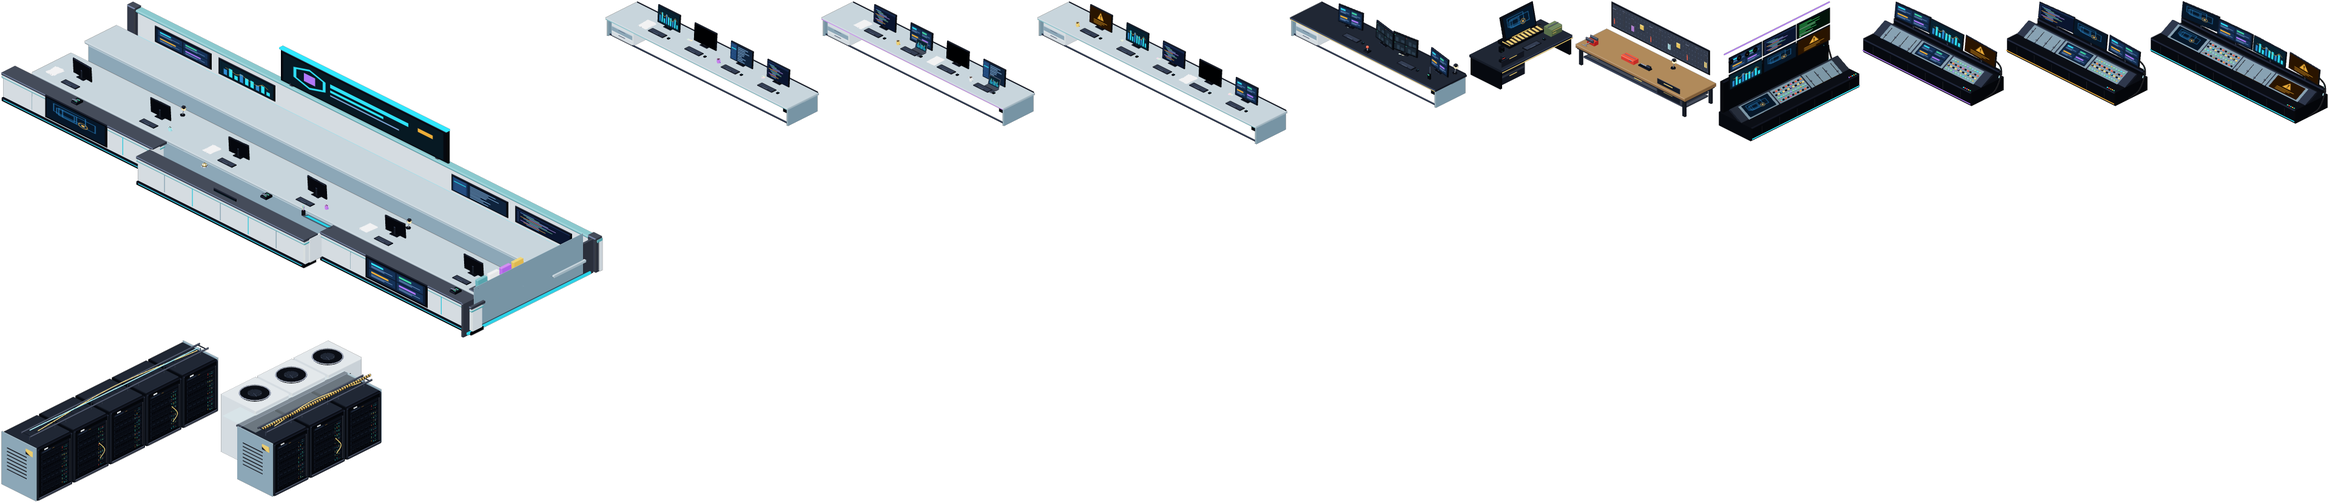
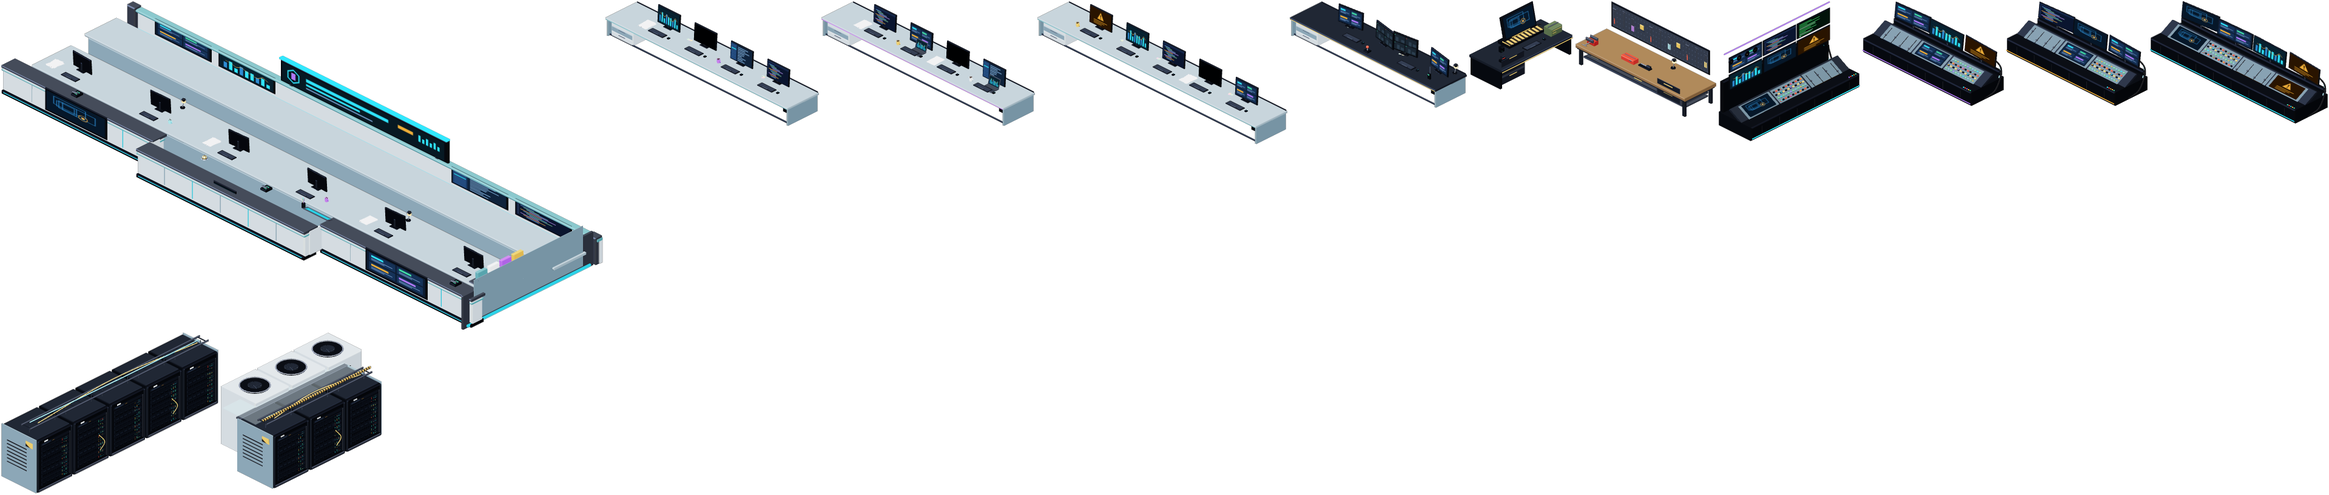
WIP overhaul: office and tech props baked (lab, cargo and architecture restyle still in progress)
Claude-Session: https://claude.ai/code/session_0115DZYYhipQqSk6LHvQcEfz

diff --git a/js/propatlas.js b/js/propatlas.js
@@ -1,2 +1,2 @@
 // GENERATED by design/props/bake_props.js: where each prop sprite is in img/props/<family>.png, and its anchor and marks. Do not edit.
-const PROP_ATLAS = {"bridge":{"px":84.8528137423857,"uh":73.48469228349533,"sheet":[411,156],"cells":{"mid":{"x":0,"y":0,"w":137,"h":138,"ax":69,"ay":242,"marks":{"deck":[69,72]},"edge":false},"tank":{"x":137,"y":0,"w":137,"h":156,"ax":69,"ay":260,"marks":{"deck":[69,90]},"edge":false},"deck":{"x":274,"y":0,"w":137,"h":138,"ax":69,"ay":242,"marks":{"deck":[69,72]},"edge":false}}},"cargo":{"px":84.8528137423857,"uh":73.48469228349533,"sheet":[606,366],"cells":{"crate.s0":{"x":0,"y":0,"w":87,"h":108,"ax":59,"ay":46,"marks":{},"edge":false},"crate.s1":{"x":87,"y":0,"w":91,"h":109,"ax":63,"ay":46,"marks":{},"edge":false},"crate.s2":{"x":178,"y":0,"w":84,"h":106,"ax":56,"ay":46,"marks":{},"edge":false},"crate.s3":{"x":262,"y":0,"w":92,"h":110,"ax":64,"ay":46,"marks":{},"edge":false},"crate_stack.s0":{"x":354,"y":0,"w":120,"h":128,"ax":60,"ay":77,"marks":{},"edge":false},"crate_stack.s1":{"x":474,"y":0,"w":120,"h":121,"ax":60,"ay":69,"marks":{},"edge":false},"barrel.s0":{"x":0,"y":128,"w":68,"h":73,"ax":34,"ay":57,"marks":{},"edge":false},"barrel.s1":{"x":68,"y":128,"w":68,"h":73,"ax":34,"ay":57,"marks":{},"edge":false},"barrel.s2":{"x":136,"y":128,"w":68,"h":73,"ax":34,"ay":57,"marks":{},"edge":false},"barrel.s3":{"x":204,"y":128,"w":68,"h":73,"ax":34,"ay":57,"marks":{},"edge":false},"floodlight":{"x":272,"y":128,"w":110,"h":176,"ax":55,"ay":147,"marks":{},"edge":false},"barrier":{"x":382,"y":128,"w":154,"h":114,"ax":77,"ay":73,"marks":{},"edge":false},"case":{"x":536,"y":128,"w":70,"h":62,"ax":35,"ay":44,"marks":{},"edge":false},"case.s1":{"x":0,"y":304,"w":70,"h":62,"ax":35,"ay":44,"marks":{},"edge":false}}},"dbg":{"px":84.8528137423857,"uh":73.48469228349533,"sheet":[294,88],"cells":{"a":{"x":0,"y":0,"w":98,"h":88,"ax":49,"ay":62,"marks":{},"edge":false},"b":{"x":98,"y":0,"w":98,"h":88,"ax":49,"ay":62,"marks":{},"edge":false},"c":{"x":196,"y":0,"w":98,"h":88,"ax":49,"ay":62,"marks":{},"edge":false}}},"lab":{"px":84.8528137423857,"uh":73.48469228349533,"sheet":[2362,476],"cells":{"lab_bench.8x2.s0":{"x":0,"y":0,"w":604,"h":337,"ax":302,"ay":189,"marks":{},"edge":false},"lab_bench.8x2.s1":{"x":604,"y":0,"w":604,"h":337,"ax":302,"ay":189,"marks":{},"edge":false},"fume_hood":{"x":1208,"y":0,"w":294,"h":234,"ax":147,"ay":162,"marks":{},"edge":false},"test_chamber.r85":{"x":1502,"y":0,"w":148,"h":186,"ax":74,"ay":127,"marks":{"top":[74,33]},"edge":false},"test_chamber.r75":{"x":1650,"y":0,"w":132,"h":177,"ax":66,"ay":123,"marks":{"top":[66,29]},"edge":false},"cart.1x1":{"x":1782,"y":0,"w":111,"h":105,"ax":60,"ay":77,"marks":{},"edge":false},"cart.2x1":{"x":1893,"y":0,"w":171,"h":135,"ax":90,"ay":92,"marks":{},"edge":false},"generator.1x2":{"x":2064,"y":0,"w":174,"h":165,"ax":86,"ay":121,"marks":{},"edge":false},"generator.1x1":{"x":2238,"y":0,"w":124,"h":149,"ax":69,"ay":119,"marks":{},"edge":false},"toolbox":{"x":0,"y":337,"w":94,"h":96,"ax":47,"ay":75,"marks":{},"edge":false},"speaker":{"x":94,"y":337,"w":70,"h":139,"ax":36,"ay":118,"marks":{},"edge":false},"spool":{"x":164,"y":337,"w":109,"h":111,"ax":61,"ay":80,"marks":{},"edge":false}}},"lounge":{"px":84.8528137423857,"uh":73.48469228349533,"sheet":[1307,341],"cells":{"couch.3x1.s0":{"x":0,"y":0,"w":238,"h":153,"ax":119,"ay":98,"marks":{},"edge":false},"couch.3x1.s1":{"x":238,"y":0,"w":238,"h":153,"ax":119,"ay":98,"marks":{},"edge":false},"table":{"x":476,"y":0,"w":172,"h":105,"ax":86,"ay":65,"marks":{},"edge":false},"beanbag.s0":{"x":648,"y":0,"w":79,"h":59,"ax":40,"ay":47,"marks":{},"edge":false},"beanbag.s1":{"x":727,"y":0,"w":77,"h":59,"ax":41,"ay":47,"marks":{},"edge":false},"beanbag.s2":{"x":804,"y":0,"w":79,"h":59,"ax":40,"ay":47,"marks":{},"edge":false},"beanbag.s3":{"x":883,"y":0,"w":78,"h":59,"ax":37,"ay":47,"marks":{},"edge":false},"pingpong":{"x":961,"y":0,"w":346,"h":186,"ax":173,"ay":113,"marks":{},"edge":false},"vending.1x1.s0":{"x":0,"y":186,"w":109,"h":124,"ax":57,"ay":101,"marks":{},"edge":false},"vending.1x1.s1":{"x":109,"y":186,"w":109,"h":124,"ax":57,"ay":101,"marks":{},"edge":false},"vending.1x1.s2":{"x":218,"y":186,"w":109,"h":124,"ax":57,"ay":101,"marks":{},"edge":false},"vending.2x1":{"x":327,"y":186,"w":171,"h":155,"ax":88,"ay":116,"marks":{},"edge":false},"cooler":{"x":498,"y":186,"w":71,"h":94,"ax":38,"ay":77,"marks":{},"edge":false},"bin.s0":{"x":569,"y":186,"w":77,"h":76,"ax":40,"ay":57,"marks":{},"edge":false},"bin.s1":{"x":646,"y":186,"w":77,"h":76,"ax":40,"ay":57,"marks":{},"edge":false},"chair":{"x":723,"y":186,"w":69,"h":75,"ax":35,"ay":60,"marks":{},"edge":false}}},"office":{"px":84.8528137423857,"uh":73.48469228349533,"sheet":[3839,829],"cells":{"reception_desk":{"x":0,"y":0,"w":996,"h":559,"ax":493,"ay":308,"marks":{},"edge":false},"computer_desk.5x1.s0":{"x":996,"y":0,"w":356,"h":210,"ax":178,"ay":121,"marks":{},"edge":false},"computer_desk.5x1.s1":{"x":1352,"y":0,"w":356,"h":210,"ax":178,"ay":121,"marks":{},"edge":false},"computer_desk.6x1":{"x":1708,"y":0,"w":416,"h":240,"ax":208,"ay":136,"marks":{},"edge":false},"computer_desk.4x1":{"x":2124,"y":0,"w":296,"h":180,"ax":148,"ay":106,"marks":{},"edge":false},"computer_desk.1x2":{"x":2420,"y":0,"w":175,"h":150,"ax":87,"ay":106,"marks":{},"edge":false},"desk":{"x":2595,"y":0,"w":236,"h":195,"ax":118,"ay":138,"marks":{},"edge":false},"console.1x3":{"x":2831,"y":0,"w":237,"h":235,"ax":118,"ay":175,"marks":{},"edge":false},"console.3x1.s0":{"x":3068,"y":0,"w":237,"h":177,"ax":119,"ay":117,"marks":{},"edge":false},"console.3x1.s1":{"x":3305,"y":0,"w":237,"h":177,"ax":119,"ay":117,"marks":{},"edge":false},"console.4x1":{"x":3542,"y":0,"w":297,"h":206,"ax":149,"ay":131,"marks":{},"edge":false},"server_rack.1x5":{"x":0,"y":559,"w":362,"h":270,"ax":181,"ay":178,"marks":{},"edge":false},"server_rack.2x3":{"x":362,"y":559,"w":269,"h":262,"ax":118,"ay":185,"marks":{},"edge":false}}},"plant":{"px":84.8528137423857,"uh":73.48469228349533,"sheet":[296,184],"cells":{"p0":{"x":0,"y":0,"w":86,"h":89,"ax":41,"ay":79,"marks":{},"edge":false},"p1":{"x":86,"y":0,"w":68,"h":98,"ax":34,"ay":81,"marks":{},"edge":false},"p2":{"x":154,"y":0,"w":64,"h":105,"ax":32,"ay":89,"marks":{},"edge":false},"p3":{"x":218,"y":0,"w":78,"h":111,"ax":40,"ay":97,"marks":{},"edge":false},"d0":{"x":0,"y":111,"w":75,"h":54,"ax":32,"ay":39,"marks":{},"edge":false},"d1":{"x":75,"y":111,"w":86,"h":73,"ax":34,"ay":57,"marks":{},"edge":false}}},"sentry":{"px":84.8528137423857,"uh":73.48469228349533,"sheet":[702,591],"cells":{"a00":{"x":0,"y":0,"w":158,"h":139,"ax":57,"ay":110,"marks":{"lamp":[41.2,3.6],"muzzle":[147.7,89.6]},"edge":false},"a01":{"x":158,"y":0,"w":121,"h":142,"ax":57,"ay":113,"marks":{"lamp":[48.4,4.2],"muzzle":[106.1,106.5]},"edge":false},"a02":{"x":279,"y":0,"w":113,"h":143,"ax":57,"ay":114,"marks":{"lamp":[57,4.4],"muzzle":[57,112.3]},"edge":false},"a03":{"x":392,"y":0,"w":120,"h":142,"ax":64,"ay":113,"marks":{"lamp":[72.6,4.2],"muzzle":[14.9,106.5]},"edge":false},"a04":{"x":512,"y":0,"w":157,"h":139,"ax":101,"ay":110,"marks":{"lamp":[116.8,3.6],"muzzle":[10.3,89.6]},"edge":false},"a05":{"x":0,"y":143,"w":180,"h":136,"ax":124,"ay":107,"marks":{"lamp":[144.7,4.3],"muzzle":[5.5,65.7]},"edge":false},"a06":{"x":180,"y":143,"w":185,"h":131,"ax":129,"ay":102,"marks":{"lamp":[151.4,3.6],"muzzle":[0.7,36.2]},"edge":false},"a07":{"x":365,"y":143,"w":180,"h":132,"ax":124,"ay":103,"marks":{"lamp":[144.7,8.8],"muzzle":[5.5,12.7]},"edge":false},"a08":{"x":545,"y":143,"w":157,"h":149,"ax":101,"ay":120,"marks":{"lamp":[116.8,29.5],"muzzle":[10.3,8.8]},"edge":false},"a09":{"x":0,"y":292,"w":120,"h":161,"ax":64,"ay":132,"marks":{"lamp":[72.6,43.9],"muzzle":[14.9,6.9]},"edge":false},"a10":{"x":120,"y":292,"w":113,"h":163,"ax":57,"ay":134,"marks":{"lamp":[57,46.8],"muzzle":[57,4.1]},"edge":false},"a11":{"x":233,"y":292,"w":121,"h":161,"ax":57,"ay":132,"marks":{"lamp":[48.4,43.9],"muzzle":[106.1,6.9]},"edge":false},"a12":{"x":354,"y":292,"w":158,"h":149,"ax":57,"ay":120,"marks":{"lamp":[41.2,29.5],"muzzle":[147.7,8.8]},"edge":false},"a13":{"x":512,"y":292,"w":181,"h":132,"ax":57,"ay":103,"marks":{"lamp":[36.3,8.8],"muzzle":[175.5,12.7]},"edge":false},"a14":{"x":0,"y":455,"w":186,"h":131,"ax":57,"ay":102,"marks":{"lamp":[34.6,3.6],"muzzle":[185.3,36.2]},"edge":false},"a15":{"x":186,"y":455,"w":181,"h":136,"ax":57,"ay":107,"marks":{"lamp":[36.3,4.3],"muzzle":[175.5,65.7]},"edge":false}}},"tank":{"px":84.8528137423857,"uh":73.48469228349533,"sheet":[594,398],"cells":{"reserve":{"x":0,"y":0,"w":382,"h":398,"ax":191,"ay":298,"marks":{"top":[191,128]},"edge":false},"lab":{"x":382,"y":0,"w":212,"h":182,"ax":104,"ay":129,"marks":{"top":[104,49]},"edge":false}}},"tech":{"px":84.8528137423857,"uh":73.48469228349533,"sheet":[958,474],"cells":{"teleporter.s0":{"x":0,"y":0,"w":90,"h":126,"ax":45,"ay":102,"marks":{},"edge":false},"teleporter.s1":{"x":90,"y":0,"w":90,"h":126,"ax":45,"ay":102,"marks":{},"edge":false},"charger.on":{"x":180,"y":0,"w":90,"h":116,"ax":45,"ay":93,"marks":{},"edge":false},"charger.off":{"x":270,"y":0,"w":90,"h":116,"ax":45,"ay":93,"marks":{},"edge":false},"relay.on":{"x":360,"y":0,"w":89,"h":133,"ax":46,"ay":111,"marks":{},"edge":false},"relay.off":{"x":449,"y":0,"w":95,"h":133,"ax":52,"ay":111,"marks":{},"edge":false},"mech_bay":{"x":544,"y":0,"w":236,"h":258,"ax":118,"ay":198,"marks":{},"edge":false},"locker.1x1.s0":{"x":780,"y":0,"w":88,"h":123,"ax":44,"ay":101,"marks":{},"edge":false},"locker.1x1.s1":{"x":868,"y":0,"w":90,"h":125,"ax":45,"ay":102,"marks":{},"edge":false},"locker.4x1":{"x":0,"y":258,"w":274,"h":216,"ax":137,"ay":147,"marks":{},"edge":false},"cabinet.1x1":{"x":274,"y":258,"w":96,"h":102,"ax":48,"ay":77,"marks":{},"edge":false},"cabinet.1x2":{"x":370,"y":258,"w":170,"h":170,"ax":85,"ay":127,"marks":{},"edge":false},"display_case.s0":{"x":540,"y":258,"w":96,"h":129,"ax":48,"ay":104,"marks":{},"edge":false},"display_case.s1":{"x":636,"y":258,"w":96,"h":129,"ax":48,"ay":104,"marks":{},"edge":false},"display_case.s2":{"x":732,"y":258,"w":96,"h":129,"ax":48,"ay":104,"marks":{},"edge":false},"telescope":{"x":828,"y":258,"w":84,"h":111,"ax":38,"ay":91,"marks":{},"edge":false}}},"truck":{"px":84.8528137423857,"uh":73.48469228349533,"sheet":[962,588],"cells":{"truck":{"x":0,"y":0,"w":962,"h":588,"ax":481,"ay":347,"marks":{},"edge":false}}}};
+const PROP_ATLAS = {"bridge":{"px":84.8528137423857,"uh":73.48469228349533,"sheet":[411,156],"cells":{"mid":{"x":0,"y":0,"w":137,"h":138,"ax":69,"ay":242,"marks":{"deck":[69,72]},"edge":false},"tank":{"x":137,"y":0,"w":137,"h":156,"ax":69,"ay":260,"marks":{"deck":[69,90]},"edge":false},"deck":{"x":274,"y":0,"w":137,"h":138,"ax":69,"ay":242,"marks":{"deck":[69,72]},"edge":false}}},"cargo":{"px":84.8528137423857,"uh":73.48469228349533,"sheet":[552,414],"cells":{"crate.s0":{"x":0,"y":0,"w":108,"h":93,"ax":54,"ay":66,"marks":{},"edge":false},"crate.s1":{"x":108,"y":0,"w":108,"h":97,"ax":54,"ay":70,"marks":{},"edge":false},"crate.s2":{"x":216,"y":0,"w":108,"h":89,"ax":54,"ay":62,"marks":{},"edge":false},"crate.s3":{"x":324,"y":0,"w":108,"h":99,"ax":54,"ay":72,"marks":{},"edge":false},"crate_stack.s0":{"x":432,"y":0,"w":120,"h":120,"ax":60,"ay":90,"marks":{},"edge":false},"crate_stack.s1":{"x":0,"y":120,"w":120,"h":113,"ax":60,"ay":83,"marks":{},"edge":false},"barrel.s0":{"x":120,"y":120,"w":68,"h":73,"ax":34,"ay":57,"marks":{},"edge":false},"barrel.s1":{"x":188,"y":120,"w":68,"h":73,"ax":34,"ay":57,"marks":{},"edge":false},"barrel.s2":{"x":256,"y":120,"w":68,"h":73,"ax":34,"ay":57,"marks":{},"edge":false},"barrel.s3":{"x":324,"y":120,"w":68,"h":73,"ax":34,"ay":57,"marks":{},"edge":false},"floodlight":{"x":392,"y":120,"w":110,"h":180,"ax":55,"ay":151,"marks":{},"edge":false},"barrier":{"x":0,"y":300,"w":154,"h":114,"ax":77,"ay":73,"marks":{},"edge":false},"case":{"x":154,"y":300,"w":70,"h":62,"ax":35,"ay":44,"marks":{},"edge":false},"case.s1":{"x":224,"y":300,"w":70,"h":62,"ax":35,"ay":44,"marks":{},"edge":false}}},"lab":{"px":84.8528137423857,"uh":73.48469228349533,"sheet":[2294,500],"cells":{"lab_bench.8x2.s0":{"x":0,"y":0,"w":604,"h":350,"ax":302,"ay":202,"marks":{},"edge":false},"lab_bench.8x2.s1":{"x":604,"y":0,"w":604,"h":351,"ax":302,"ay":203,"marks":{},"edge":false},"fume_hood":{"x":1208,"y":0,"w":350,"h":235,"ax":175,"ay":163,"marks":{},"edge":false},"test_chamber.r85":{"x":1558,"y":0,"w":148,"h":186,"ax":74,"ay":127,"marks":{"top":[74,33]},"edge":false},"test_chamber.r75":{"x":1706,"y":0,"w":132,"h":177,"ax":66,"ay":123,"marks":{"top":[66,29]},"edge":false},"cart.1x1":{"x":1838,"y":0,"w":111,"h":105,"ax":60,"ay":77,"marks":{},"edge":false},"cart.2x1":{"x":1949,"y":0,"w":171,"h":135,"ax":90,"ay":92,"marks":{},"edge":false},"generator.1x2":{"x":2120,"y":0,"w":174,"h":165,"ax":86,"ay":121,"marks":{},"edge":false},"generator.1x1":{"x":0,"y":351,"w":124,"h":149,"ax":69,"ay":119,"marks":{},"edge":false},"toolbox":{"x":124,"y":351,"w":94,"h":96,"ax":47,"ay":75,"marks":{},"edge":false},"speaker":{"x":218,"y":351,"w":69,"h":132,"ax":36,"ay":111,"marks":{},"edge":false},"spool":{"x":287,"y":351,"w":109,"h":111,"ax":61,"ay":80,"marks":{},"edge":false}}},"lounge":{"px":84.8528137423857,"uh":73.48469228349533,"sheet":[1307,341],"cells":{"couch.3x1.s0":{"x":0,"y":0,"w":238,"h":153,"ax":119,"ay":98,"marks":{},"edge":false},"couch.3x1.s1":{"x":238,"y":0,"w":238,"h":153,"ax":119,"ay":98,"marks":{},"edge":false},"table":{"x":476,"y":0,"w":172,"h":105,"ax":86,"ay":65,"marks":{},"edge":false},"beanbag.s0":{"x":648,"y":0,"w":79,"h":59,"ax":40,"ay":47,"marks":{},"edge":false},"beanbag.s1":{"x":727,"y":0,"w":77,"h":59,"ax":41,"ay":47,"marks":{},"edge":false},"beanbag.s2":{"x":804,"y":0,"w":79,"h":59,"ax":40,"ay":47,"marks":{},"edge":false},"beanbag.s3":{"x":883,"y":0,"w":78,"h":59,"ax":37,"ay":47,"marks":{},"edge":false},"pingpong":{"x":961,"y":0,"w":346,"h":186,"ax":173,"ay":113,"marks":{},"edge":false},"vending.1x1.s0":{"x":0,"y":186,"w":109,"h":124,"ax":57,"ay":101,"marks":{},"edge":false},"vending.1x1.s1":{"x":109,"y":186,"w":109,"h":124,"ax":57,"ay":101,"marks":{},"edge":false},"vending.1x1.s2":{"x":218,"y":186,"w":109,"h":124,"ax":57,"ay":101,"marks":{},"edge":false},"vending.2x1":{"x":327,"y":186,"w":171,"h":155,"ax":88,"ay":116,"marks":{},"edge":false},"cooler":{"x":498,"y":186,"w":71,"h":94,"ax":38,"ay":77,"marks":{},"edge":false},"bin.s0":{"x":569,"y":186,"w":77,"h":76,"ax":40,"ay":57,"marks":{},"edge":false},"bin.s1":{"x":646,"y":186,"w":77,"h":76,"ax":40,"ay":57,"marks":{},"edge":false},"chair":{"x":723,"y":186,"w":69,"h":75,"ax":35,"ay":60,"marks":{},"edge":false}}},"office":{"px":84.8528137423857,"uh":73.48469228349533,"sheet":[3839,817],"cells":{"reception_desk":{"x":0,"y":0,"w":996,"h":547,"ax":493,"ay":296,"marks":{},"edge":false},"computer_desk.5x1.s0":{"x":996,"y":0,"w":356,"h":210,"ax":178,"ay":121,"marks":{},"edge":false},"computer_desk.5x1.s1":{"x":1352,"y":0,"w":356,"h":210,"ax":178,"ay":121,"marks":{},"edge":false},"computer_desk.6x1":{"x":1708,"y":0,"w":416,"h":240,"ax":208,"ay":136,"marks":{},"edge":false},"computer_desk.4x1":{"x":2124,"y":0,"w":296,"h":180,"ax":148,"ay":106,"marks":{},"edge":false},"computer_desk.1x2":{"x":2420,"y":0,"w":175,"h":150,"ax":87,"ay":106,"marks":{},"edge":false},"desk":{"x":2595,"y":0,"w":236,"h":195,"ax":118,"ay":138,"marks":{},"edge":false},"console.1x3":{"x":2831,"y":0,"w":237,"h":235,"ax":118,"ay":175,"marks":{},"edge":false},"console.3x1.s0":{"x":3068,"y":0,"w":237,"h":177,"ax":119,"ay":117,"marks":{},"edge":false},"console.3x1.s1":{"x":3305,"y":0,"w":237,"h":177,"ax":119,"ay":117,"marks":{},"edge":false},"console.4x1":{"x":3542,"y":0,"w":297,"h":206,"ax":149,"ay":131,"marks":{},"edge":false},"server_rack.1x5":{"x":0,"y":547,"w":362,"h":270,"ax":181,"ay":178,"marks":{},"edge":false},"server_rack.2x3":{"x":362,"y":547,"w":269,"h":262,"ax":118,"ay":185,"marks":{},"edge":false}}},"plant":{"px":84.8528137423857,"uh":73.48469228349533,"sheet":[296,184],"cells":{"p0":{"x":0,"y":0,"w":86,"h":89,"ax":41,"ay":79,"marks":{},"edge":false},"p1":{"x":86,"y":0,"w":68,"h":98,"ax":34,"ay":81,"marks":{},"edge":false},"p2":{"x":154,"y":0,"w":64,"h":105,"ax":32,"ay":89,"marks":{},"edge":false},"p3":{"x":218,"y":0,"w":78,"h":111,"ax":40,"ay":97,"marks":{},"edge":false},"d0":{"x":0,"y":111,"w":75,"h":54,"ax":32,"ay":39,"marks":{},"edge":false},"d1":{"x":75,"y":111,"w":86,"h":73,"ax":34,"ay":57,"marks":{},"edge":false}}},"sentry":{"px":84.8528137423857,"uh":73.48469228349533,"sheet":[702,591],"cells":{"a00":{"x":0,"y":0,"w":158,"h":139,"ax":57,"ay":110,"marks":{"lamp":[41.2,3.6],"muzzle":[147.7,89.6]},"edge":false},"a01":{"x":158,"y":0,"w":121,"h":142,"ax":57,"ay":113,"marks":{"lamp":[48.4,4.2],"muzzle":[106.1,106.5]},"edge":false},"a02":{"x":279,"y":0,"w":113,"h":143,"ax":57,"ay":114,"marks":{"lamp":[57,4.4],"muzzle":[57,112.3]},"edge":false},"a03":{"x":392,"y":0,"w":120,"h":142,"ax":64,"ay":113,"marks":{"lamp":[72.6,4.2],"muzzle":[14.9,106.5]},"edge":false},"a04":{"x":512,"y":0,"w":157,"h":139,"ax":101,"ay":110,"marks":{"lamp":[116.8,3.6],"muzzle":[10.3,89.6]},"edge":false},"a05":{"x":0,"y":143,"w":180,"h":136,"ax":124,"ay":107,"marks":{"lamp":[144.7,4.3],"muzzle":[5.5,65.7]},"edge":false},"a06":{"x":180,"y":143,"w":185,"h":131,"ax":129,"ay":102,"marks":{"lamp":[151.4,3.6],"muzzle":[0.7,36.2]},"edge":false},"a07":{"x":365,"y":143,"w":180,"h":132,"ax":124,"ay":103,"marks":{"lamp":[144.7,8.8],"muzzle":[5.5,12.7]},"edge":false},"a08":{"x":545,"y":143,"w":157,"h":149,"ax":101,"ay":120,"marks":{"lamp":[116.8,29.5],"muzzle":[10.3,8.8]},"edge":false},"a09":{"x":0,"y":292,"w":120,"h":161,"ax":64,"ay":132,"marks":{"lamp":[72.6,43.9],"muzzle":[14.9,6.9]},"edge":false},"a10":{"x":120,"y":292,"w":113,"h":163,"ax":57,"ay":134,"marks":{"lamp":[57,46.8],"muzzle":[57,4.1]},"edge":false},"a11":{"x":233,"y":292,"w":121,"h":161,"ax":57,"ay":132,"marks":{"lamp":[48.4,43.9],"muzzle":[106.1,6.9]},"edge":false},"a12":{"x":354,"y":292,"w":158,"h":149,"ax":57,"ay":120,"marks":{"lamp":[41.2,29.5],"muzzle":[147.7,8.8]},"edge":false},"a13":{"x":512,"y":292,"w":181,"h":132,"ax":57,"ay":103,"marks":{"lamp":[36.3,8.8],"muzzle":[175.5,12.7]},"edge":false},"a14":{"x":0,"y":455,"w":186,"h":131,"ax":57,"ay":102,"marks":{"lamp":[34.6,3.6],"muzzle":[185.3,36.2]},"edge":false},"a15":{"x":186,"y":455,"w":181,"h":136,"ax":57,"ay":107,"marks":{"lamp":[36.3,4.3],"muzzle":[175.5,65.7]},"edge":false}}},"tank":{"px":84.8528137423857,"uh":73.48469228349533,"sheet":[594,398],"cells":{"reserve":{"x":0,"y":0,"w":382,"h":398,"ax":191,"ay":298,"marks":{"top":[191,128]},"edge":false},"lab":{"x":382,"y":0,"w":212,"h":182,"ax":104,"ay":129,"marks":{"top":[104,49]},"edge":false}}},"tech":{"px":84.8528137423857,"uh":73.48469228349533,"sheet":[958,474],"cells":{"teleporter.s0":{"x":0,"y":0,"w":90,"h":126,"ax":45,"ay":102,"marks":{},"edge":false},"teleporter.s1":{"x":90,"y":0,"w":90,"h":126,"ax":45,"ay":102,"marks":{},"edge":false},"charger.on":{"x":180,"y":0,"w":90,"h":116,"ax":45,"ay":93,"marks":{},"edge":false},"charger.off":{"x":270,"y":0,"w":90,"h":116,"ax":45,"ay":93,"marks":{},"edge":false},"relay.on":{"x":360,"y":0,"w":89,"h":133,"ax":46,"ay":111,"marks":{},"edge":false},"relay.off":{"x":449,"y":0,"w":95,"h":133,"ax":52,"ay":111,"marks":{},"edge":false},"mech_bay":{"x":544,"y":0,"w":236,"h":258,"ax":118,"ay":198,"marks":{},"edge":false},"locker.1x1.s0":{"x":780,"y":0,"w":88,"h":123,"ax":44,"ay":101,"marks":{},"edge":false},"locker.1x1.s1":{"x":868,"y":0,"w":90,"h":125,"ax":45,"ay":102,"marks":{},"edge":false},"locker.4x1":{"x":0,"y":258,"w":274,"h":216,"ax":137,"ay":147,"marks":{},"edge":false},"cabinet.1x1":{"x":274,"y":258,"w":96,"h":102,"ax":48,"ay":77,"marks":{},"edge":false},"cabinet.1x2":{"x":370,"y":258,"w":170,"h":170,"ax":85,"ay":127,"marks":{},"edge":false},"display_case.s0":{"x":540,"y":258,"w":96,"h":129,"ax":48,"ay":104,"marks":{},"edge":false},"display_case.s1":{"x":636,"y":258,"w":96,"h":129,"ax":48,"ay":104,"marks":{},"edge":false},"display_case.s2":{"x":732,"y":258,"w":96,"h":129,"ax":48,"ay":104,"marks":{},"edge":false},"telescope":{"x":828,"y":258,"w":84,"h":111,"ax":38,"ay":91,"marks":{},"edge":false}}},"truck":{"px":84.8528137423857,"uh":73.48469228349533,"sheet":[962,588],"cells":{"truck":{"x":0,"y":0,"w":962,"h":588,"ax":481,"ay":347,"marks":{},"edge":false}}}};

diff --git a/design/props/models/lab.js b/design/props/models/lab.js
@@ -77,7 +77,7 @@
   const cone_ = (r, h) => { const m = new T.Mesh(new T.ConeGeometry(r, h, 6), L.plastic); m.rotation.x = PI; return m; };
   const washBottle = () => { const g = G(); Cy(g, 0.075, 0, 9, L.plastic, 0, 0, 14, 0.07); Cy(g, 0.05, 9, 10, L.plastic, 0, 0, 12); const n = tube([[0, P(10), 0], [0.03, P(13), 0], [0.12, P(14), 0.03], [0.17, P(12.5), 0.04]], 0.012, L.plastic); g.add(n); S(g, 0.05, L.yellow, 0, P(10.2), 0); return g; };
   const sharps = () => { const g = G(); Cy(g, 0.1, 0, 7, L.redPaint, 0, 0, 14, 0.09); Cy(g, 0.105, 7, 8.2, L.graphite, 0, 0, 14); const t = new T.Mesh(new T.PlaneGeometry(0.07, P(2.4)), G_.amber); t.position.set(0, P(4), 0.098); g.add(t); return g; };
-  const labTop = (par, y, items) => { for (const [mk, x, z, ry] of items) { const o = mk(); at(o, x, P(y), z, ry); par.add(o); } };
+  const labTop = (par, y, items, k) => { for (const [mk, x, z, ry] of items) { const o = mk(); at(o, x, P(y), z, ry); if (k) o.scale.setScalar(k); par.add(o); } };
 
   // ───────────── THE BENCH ─────────────
   const bench = (style) => {
@@ -97,11 +97,16 @@
     B(g, [X1 - 0.06, X1], [3, 34], [-Z1 + 0.08, Z1 - 0.08], L.laminate, 0.012); B(g, [X1 - 0.07, X1 + 0.005], [8, 10.4], [-0.82, 0.82], L.teal, 0.004); B(g, [X1 - 0.07, X1 + 0.005], [20, 28], [-0.5, 0.1], L.graphite, 0.006); B(g, [X1 - 0.08, X1 + 0.01], [22, 26], [-0.42, 0.0], style ? G_.cyan : G_.mint, 0.002); S(g, 0.03, G_.green, X1, P(30), 0.55);
     // the worktop: a white solid surface with a teal edge and a splash lip at the back
     B(g, [X0, X1], [33.2, TOP], [-Z1, Z1], L.top, 0.03); B(g, [X0 + 0.01, X1 - 0.01], [31.8, 33.2], [Z1 - 0.1, Z1 - 0.045], L.teal, 0.01); B(g, [X1 - 0.075, X1 - 0.02], [31.8, 33.2], [-Z1 + 0.06, Z1 - 0.1], L.teal, 0.01); B(g, [X0, X1], [TOP, TOP + 1.2], [-Z1 + 0.02, -Z1 + 0.1], L.top, 0.012);
+    // the reagent riser along the back: a shelf on steel posts with a row of bottles, and a teal strip under it
+    { const sy = TOP + 14; B(g, [X0 + 0.1, X1 - 0.1], [sy, sy + 1.6], [-Z1 + 0.02, -Z1 + 0.36], L.top, 0.01); B(g, [X0 + 0.1, X1 - 0.1], [sy - 0.8, sy], [-Z1 + 0.34, -Z1 + 0.36], L.teal, 0.004);
+      for (const x of [X0 + 0.14, -1.9, 0.1, 2.1, X1 - 0.14]) B(g, [x - 0.03, x + 0.03], [TOP + 1.2, sy], [-Z1 + 0.1, -Z1 + 0.16], L.steel, 0.006);
+      const cols = [[L.glassBrown, LQ.amber, L.redPaint], [L.glass, LQ.mint, L.tealDk], [L.glass, LQ.violet, L.dark], [L.glassBrown, LQ.red, L.blueBin], [L.glass, LQ.cyan, L.yellow], [L.glassBrown, LQ.amber, L.dark]];
+      for (let i = 0; i < 21; i++) { if ((i + style * 3) % 7 === 4) continue; const c = cols[(i * 5 + style * 2) % cols.length], h = 11 + rnd(i + style * 9) * 6, b = bottle(0.075 + rnd(i + 3) * 0.02, h, c[0], c[1], c[2]); at(b, X0 + 0.45 + i * 0.37, P(sy + 1.6), -Z1 + 0.19); g.add(b); } }
     const slots = []; const T0 = TOP + 0.1;
     if (style === 0) {
-      labTop(g, T0, [[sink, -3.5, 0.55, 0], [() => tubeRack(6, [LQ.mint, LQ.amber, LQ.violet]), -2.3, 0.5, 0.1], [microscope, -1.6, -0.4, deg(20)], [() => flask(0.14, LQ.mint), -0.78, 0.55, 0], [() => erlen(0.17, 18, LQ.amber), -0.38, 0.6, 0], [() => beaker(0.14, 14, LQ.cyan), -0.02, 0.5, 0], [centrifuge, 0.5, -0.45, 0], [() => monitor(0.54, 17, ['8fd0ff', '2a58c8']), 1.55, -0.5, 0], [keyboard, 1.5, 0.3, 0], [() => tubeRack(5, [LQ.red, LQ.cyan]), 2.5, 0.55, -0.1], [gasTap, 2.8, -0.82, 0], [washBottle, 3.15, 0.45, 0.4], [() => bottle(0.1, 16, L.glassBrown, LQ.amber, L.redPaint), 2.75, -0.35, 0], [() => bottle(0.09, 14, L.glass, LQ.green, L.blueBin), 3.0, -0.5, 0], [() => bottle(0.11, 18, L.glassBrown, LQ.red, L.dark), 3.3, -0.4, 0], [sharps, 3.6, 0.55, 0], [tipBox, -3.0, -0.6, 0.2]]);
+      labTop(g, T0, [[sink, -3.5, 0.55, 0], [() => tubeRack(6, [LQ.mint, LQ.amber, LQ.violet]), -2.3, 0.5, 0.1], [microscope, -1.6, -0.4, deg(20)], [() => flask(0.14, LQ.mint), -0.78, 0.55, 0], [() => erlen(0.17, 18, LQ.amber), -0.38, 0.6, 0], [() => beaker(0.14, 14, LQ.cyan), -0.02, 0.5, 0], [centrifuge, 0.5, -0.45, 0], [() => monitor(0.54, 17, ['8fd0ff', '2a58c8']), 1.55, -0.5, 0], [keyboard, 1.5, 0.3, 0], [() => tubeRack(5, [LQ.red, LQ.cyan]), 2.5, 0.55, -0.1], [gasTap, 2.8, -0.82, 0], [washBottle, 3.15, 0.45, 0.4], [() => bottle(0.1, 16, L.glassBrown, LQ.amber, L.redPaint), 2.75, -0.35, 0], [() => bottle(0.09, 14, L.glass, LQ.green, L.blueBin), 3.0, -0.5, 0], [() => bottle(0.11, 18, L.glassBrown, LQ.red, L.dark), 3.3, -0.4, 0], [sharps, 3.6, 0.55, 0], [tipBox, -3.0, -0.6, 0.2]], 1.25);
     } else {
-      labTop(g, T0, [[() => monitor(0.54, 17, ['9be8ff', '2a58c8']), -3.4, -0.5, 0], [keyboard, -3.4, 0.28, 0], [centrifuge, -2.5, -0.4, deg(40)], [() => tubeRack(7, [LQ.violet, LQ.mint, LQ.cyan]), -1.5, 0.5, 0], [microscope, -0.5, -0.4, deg(-15)], [sink, 0.7, 0.55, 0], [() => flask(0.15, LQ.violet), 1.55, 0.52, 0], [() => flask(0.11, LQ.cyan), 1.9, 0.6, 0], [() => erlen(0.15, 16, LQ.mint), 2.25, 0.5, 0], [() => beaker(0.16, 15, LQ.amber, 0.5), 2.6, 0.55, 0], [tablet, 2.3, -0.45, 0.2], [() => bottle(0.1, 17, L.glassBrown, LQ.amber, L.redPaint), 3.0, -0.45, 0], [() => bottle(0.1, 15, L.glass, LQ.blue, L.tealDk), 3.25, -0.38, 0], [() => bottle(0.1, 16, L.glass, LQ.violet, L.dark), 3.5, -0.46, 0], [gasTap, -2.0, -0.82, 0], [washBottle, 3.4, 0.5, -0.5], [tipBox, -0.4, 0.55, 0], [sharps, 3.7, 0.55, 0]]);
+      labTop(g, T0, [[() => monitor(0.54, 17, ['9be8ff', '2a58c8']), -3.4, -0.5, 0], [keyboard, -3.4, 0.28, 0], [centrifuge, -2.5, -0.4, deg(40)], [() => tubeRack(7, [LQ.violet, LQ.mint, LQ.cyan]), -1.5, 0.5, 0], [microscope, -0.5, -0.4, deg(-15)], [sink, 0.7, 0.55, 0], [() => flask(0.15, LQ.violet), 1.55, 0.52, 0], [() => flask(0.11, LQ.cyan), 1.9, 0.6, 0], [() => erlen(0.15, 16, LQ.mint), 2.25, 0.5, 0], [() => beaker(0.16, 15, LQ.amber, 0.5), 2.6, 0.55, 0], [tablet, 2.3, -0.45, 0.2], [() => bottle(0.1, 17, L.glassBrown, LQ.amber, L.redPaint), 3.0, -0.45, 0], [() => bottle(0.1, 15, L.glass, LQ.blue, L.tealDk), 3.25, -0.38, 0], [() => bottle(0.1, 16, L.glass, LQ.violet, L.dark), 3.5, -0.46, 0], [gasTap, -2.0, -0.82, 0], [washBottle, 3.4, 0.5, -0.5], [tipBox, -0.4, 0.55, 0], [sharps, 3.7, 0.55, 0]], 1.25);
     }
     return { g };
   };
@@ -112,7 +117,7 @@
     B(g, [-X, X], [0, 4], [-Z + 0.08, Z - 0.1], L.graphite, 0.01); B(g, [-X, X], [4, 33], [-Z + 0.04, Z - 0.1], L.laminateDk, 0.012);
     for (let i = 0; i < 3; i++) { const x0 = -X + i * (2 * X / 3) + 0.05, x1 = -X + (i + 1) * (2 * X / 3) - 0.05, zf = Z - 0.1; B(g, [x0, x1], [4.6, 32.6], [zf, zf + 0.05], L.laminate, 0.012); B(g, [x0 + 0.06, x1 - 0.06], [6.4, 30.8], [zf + 0.045, zf + 0.056], L.laminateDk, 0.004); Ca(g, 'z', 0.016, 0, 0, L.chrome, 0, 0, 0, 6).visible = false; const h = cyl(0.016, 0.016, P(9), L.chrome, 8); h.position.set(x1 - 0.14, P(18), zf + 0.1); g.add(h); if (i === 1) { B(g, [x0 + 0.1, x0 + 0.4], [26, 28], [zf + 0.052, zf + 0.06], G_.amber, 0.002); } }
     // the worktop (steel, a raised spill lip) and the enclosure: a back, two side walls with windows, a header
-    B(g, [-X, X], [33, 35], [-Z, Z], L.steel, 0.02); B(g, [-X + 0.04, X - 0.04], [35, 36.2], [Z - 0.1, Z - 0.04], L.steelDk, 0.008);
+    B(g, [-X, X], [33, 35], [-Z, Z], L.top, 0.02); B(g, [-X + 0.04, X - 0.04], [34.6, 35.2], [-Z + 0.1, Z - 0.12], G_.white, 0.004); B(g, [-X + 0.04, X - 0.04], [35, 36.2], [Z - 0.1, Z - 0.04], L.steelDk, 0.008);
     const EY0 = 35, EY1 = 78, ZB = -Z + 0.06, ZF = Z - 0.06;
     B(g, [-X, X], [EY0, EY1], [ZB - 0.02, ZB + 0.08], L.laminate, 0.012);                       // the back panel
     B(g, [-X, -X + 0.1], [EY0, EY1], [ZB, ZF], L.laminate, 0.012);                              // the west post
@@ -131,7 +136,7 @@
     // the sash: a glass pane in a steel frame raised a little, with a handle bar, over the front
     const sy0 = EY0 + 1, sy1 = EY1 - 1, sh = P(sy1 - sy0) - 0.0;
     B(g, [-X + 0.06, X - 0.06], [sy0 + 2, sy0 + 4], [ZF, ZF + 0.05], L.steelDk, 0.006); B(g, [-X + 0.06, X - 0.06], [sy1 - 9, sy1 - 7], [ZF, ZF + 0.05], L.steelDk, 0.006); B(g, [-X + 0.06, -X + 0.14], [sy0 + 2, sy1 - 7], [ZF, ZF + 0.05], L.steelDk, 0.006); B(g, [X - 0.14, X - 0.06], [sy0 + 2, sy1 - 7], [ZF, ZF + 0.05], L.steelDk, 0.006);
-    const gl = new T.Mesh(new T.PlaneGeometry(2 * X - 0.2, P(sy1 - sy0 - 11)), L.glass); gl.position.set(0, P((sy0 + 4 + sy1 - 9) / 2), ZF + 0.025); gl.renderOrder = 3; g.add(gl);
+    const gl = new T.Mesh(new T.PlaneGeometry(2 * X - 0.2, P(sy1 - sy0 - 11)), L.glassTint); gl.position.set(0, P((sy0 + 4 + sy1 - 9) / 2), ZF + 0.025); gl.renderOrder = 3; g.add(gl);
     for (const [dx, w, rot] of [[-1.5 * 0.4, 0.16, 0.3], [-0.2, 0.05, 0.3], [0.9, 0.1, 0.3]]) { const hl = new T.Mesh(new T.PlaneGeometry(w, P(sy1 - sy0 - 20)), new T.MeshBasicMaterial({ color: 0xffffff, transparent: true, opacity: 0.2, depthWrite: false, toneMapped: false })); hl.position.set(dx, P((sy0 + sy1) / 2 - 3), ZF + 0.03); hl.rotation.z = rot; hl.renderOrder = 4; g.add(hl); }
     Ca(g, 'x', 0.022, -0.7, 0.7, L.chrome, 0, P(sy0 + 6), ZF + 0.12, 10); for (const xx of [-0.65, 0.65]) rod(g, [xx, P(sy0 + 6), ZF + 0.05], [xx, P(sy0 + 6), ZF + 0.12], 0.014, L.chrome, 6);
     // the header: a control panel with a display, lamps and a dial, under a canopy that narrows to a round duct
@@ -140,10 +145,10 @@
     for (let i = 0; i < 4; i++) S(g, 0.04, [G_.green, G_.green, G_.amber, G_.red][i], -0.05 + i * 0.13, P(EY1 + 7.4), ZF + 0.06); { const d = cyl(0.1, 0.1, 0.04, L.chrome, 16); d.rotation.x = PI / 2; d.position.set(0.7, P(EY1 + 5.5), ZF + 0.06); g.add(d); const n = cyl(0.012, 0.012, 0.045, G_.cyan, 6); n.rotation.x = PI / 2; n.position.set(0.7, P(EY1 + 6.1), ZF + 0.075); g.add(n); }
     for (const sx of [1.08, 1.28]) { const sl = new T.Mesh(new T.PlaneGeometry(0.1, P(5)), G_.mint); sl.position.set(sx, P(EY1 + 5.5), ZF + 0.056); g.add(sl); }
     // the canopy and the duct
-    const cp = new T.Mesh(new T.CylinderGeometry(0.3, 1.05, P(10), 4, 1), L.laminate); cp.rotation.y = PI / 4; cp.scale.set(1.34, 1, 0.9); cp.position.set(0, P(EY1 + 11 + 5), 0); g.add(cp);
-    const duct = cyl(0.27, 0.27, P(36), L.steel, 24); duct.position.set(0, P(EY1 + 21 + 18), 0); g.add(duct); for (const yy of [EY1 + 24, EY1 + 40]) { const fl = cyl(0.33, 0.33, P(2.2), L.steelDk, 24); fl.position.set(0, P(yy), 0); g.add(fl); for (let i = 0; i < 12; i++) { const a = i * PI / 6, b = cyl(0.014, 0.014, P(2.8), L.chrome, 6); b.position.set(Math.cos(a) * 0.3, P(yy), Math.sin(a) * 0.3); g.add(b); } }
-    { const damp = new T.Mesh(new T.CylinderGeometry(0.014, 0.014, 0.62, 8), L.chrome); damp.rotation.z = PI / 2; damp.position.set(0, P(EY1 + 32), 0); g.add(damp); const lv = cbox(0.04, 0.2, 0.025, 0.004, L.redPaint); lv.position.set(0.3, P(EY1 + 32), 0.3); g.add(lv); }
-    B(g, [-0.3, 0.3], [EY1 + 57, EY1 + 59], [-0.3, 0.3], L.steelDk, 0.01);
+    const cp = new T.Mesh(new T.CylinderGeometry(0.24, 1.0, P(18), 4, 1), L.laminateDk); cp.rotation.y = PI / 4; cp.scale.set(2.04, 1, 1.33); cp.position.set(0, P(EY1 + 11 + 9), 0); g.add(cp); B(g, [-X + 0.02, X - 0.02], [EY1 + 11, EY1 + 12.4], [ZB - 0.0, ZF + 0.0], L.teal, 0.006);
+    const duct = cyl(0.27, 0.27, P(34), L.steel, 24); duct.position.set(0, P(EY1 + 29 + 17), 0); g.add(duct); for (const yy of [EY1 + 32, EY1 + 46]) { const fl = cyl(0.33, 0.33, P(2.2), L.steelDk, 24); fl.position.set(0, P(yy), 0); g.add(fl); for (let i = 0; i < 12; i++) { const a = i * PI / 6, b = cyl(0.014, 0.014, P(2.8), L.chrome, 6); b.position.set(Math.cos(a) * 0.3, P(yy), Math.sin(a) * 0.3); g.add(b); } }
+    { const damp = new T.Mesh(new T.CylinderGeometry(0.014, 0.014, 0.62, 8), L.chrome); damp.rotation.z = PI / 2; damp.position.set(0, P(EY1 + 39), 0); g.add(damp); const lv = cbox(0.04, 0.2, 0.025, 0.004, L.redPaint); lv.position.set(0.3, P(EY1 + 39), 0.3); g.add(lv); }
+    { const cw = new T.Mesh(new T.ConeGeometry(0.36, P(8), 24), L.steelDk); cw.position.set(0, P(EY1 + 63 + 4), 0); g.add(cw); const cr2 = cyl(0.3, 0.3, P(1.4), L.steel, 24); cr2.position.set(0, P(EY1 + 63), 0); g.add(cr2); }
     // the base: a hazard strip along the foot and a label
     B(g, [-X + 0.2, X - 0.2], [0.4, 3], [Z - 0.095, Z - 0.05], MT.amber, 0.004);
     return { g };
@@ -169,7 +174,7 @@
     for (const yy of [y0 + 0.5, y1 - 0.5]) { const r = new T.Mesh(new T.TorusGeometry(gR, 0.02, 6, 40), hot); r.rotation.x = PI / 2; r.position.y = P(yy); g.add(r); }
     for (const [th, w, op] of [[deg(40), 0.07, 0.42], [deg(58), 0.03, 0.4], [deg(-12), 0.04, 0.3]]) { const hl = new T.Mesh(new T.PlaneGeometry(w, P(y1 - y0 - 8)), new T.MeshBasicMaterial({ color: 0xffffff, transparent: true, opacity: op, depthWrite: false, toneMapped: false })); const w2 = G(); w2.rotation.y = -th; hl.position.set(gR + 0.006, P((y0 + y1) / 2), 0); hl.rotation.y = PI / 2; w2.add(hl); hl.renderOrder = 4; g.add(w2); }
     for (let i = 0; i < 4; i++) { const th = deg(45 + i * 90), x = Math.cos(th) * (R - 0.06), z = Math.sin(th) * (R - 0.06); const r = cyl(0.026, 0.026, P(y1 - y0 + 4), L.steel, 8); r.position.set(x, P((y0 + y1 + 4) / 2), z); g.add(r); }
-    Cy(g, R - 0.03, y1, y1 + 4, L.steelDk, 0, 0, 40, R - 0.05); Cy(g, R - 0.12, y1 + 4, y1 + 8, L.steel, 0, 0, 40, R - 0.2); const cr = new T.Mesh(new T.TorusGeometry(R - 0.04, 0.02, 6, 40), L.chrome); cr.rotation.x = PI / 2; cr.position.y = P(y1 + 2); g.add(cr);
+    Cy(g, R - 0.03, y1, y1 + 4, L.steel, 0, 0, 40, R - 0.05); Cy(g, R - 0.12, y1 + 4, y1 + 8, L.chrome, 0, 0, 40, R - 0.2); for (let k = 0; k < 8; k++) { const a = k * PI / 4; rod(g, [Math.cos(a) * 0.12, P(y1 + 8.2), Math.sin(a) * 0.12], [Math.cos(a) * (R - 0.22), P(y1 + 8.2), Math.sin(a) * (R - 0.22)], 0.012, L.steelDk, 6); } const cr = new T.Mesh(new T.TorusGeometry(R - 0.04, 0.02, 6, 40), L.chrome); cr.rotation.x = PI / 2; cr.position.y = P(y1 + 2); g.add(cr);
     for (const [th, hh] of [[deg(35), 14], [deg(150), 9], [deg(-60), 11]]) { const x = Math.cos(th) * (R * 0.5), z = Math.sin(th) * (R * 0.5); rod(g, [x, P(y1 + 8), z], [x, P(y1 + 8 + hh), z], 0.04, L.steel, 10); const el = S(g, 0.055, L.steel, x, P(y1 + 8 + hh), z); }
     { const tt = tube([[Math.cos(deg(35)) * R * 0.5, P(y1 + 22), Math.sin(deg(35)) * R * 0.5], [R * 0.7, P(y1 + 26), R * 0.4], [R * 0.9, P(y1 + 16), R * 0.7], [R * 0.95, P(y1 - 4), R * 0.7]], 0.024, L.rubber); g.add(tt); }
     { const a = deg(62), x = Math.cos(a) * (R * 0.55), z = Math.sin(a) * (R * 0.55); const d = cyl(0.11, 0.11, 0.05, L.chrome, 20); d.position.set(x, P(y1 + 12), z); d.rotation.x = PI / 2 - 0.6; g.add(d); const f = cyl(0.085, 0.085, 0.052, grad('#ffffff', '#c8d8e0'), 20); f.position.copy(d.position); f.rotation.copy(d.rotation); f.position.y += 0.002; g.add(f); }
@@ -180,7 +185,7 @@
   // ───────────── CARTS ─────────────
   const cart = (W, items) => {
     const g = G(), hw = W / 2 - 0.05, hz = 0.38, ys = [7, 21, 35];
-    for (const [sx, sz] of [[-1, -1], [1, -1], [-1, 1], [1, 1]]) { Cy(g, 0.022, 5, 36, L.steel, sx * (hw - 0.03), sz * (hz - 0.03), 8); const fk = G(); fk.position.set(sx * (hw - 0.03), P(5), sz * (hz - 0.03)); g.add(fk); Cy(fk, 0.03, -2.4, 0, L.steelDk, 0, 0, 10); const wh = cyl(0.055, 0.055, 0.05, L.rubber, 14); wh.rotation.z = PI / 2; wh.position.y = P(-3.6); fk.add(wh); const hub = cyl(0.03, 0.03, 0.056, L.chrome, 8); hub.rotation.z = PI / 2; hub.position.y = P(-3.6); fk.add(hub); }
+    for (const [sx, sz] of [[-1, -1], [1, -1], [-1, 1], [1, 1]]) { Cy(g, 0.03, 5, 36, L.steel, sx * (hw - 0.03), sz * (hz - 0.03), 10); const fk = G(); fk.position.set(sx * (hw - 0.03), P(5), sz * (hz - 0.03)); g.add(fk); Cy(fk, 0.03, -2.4, 0, L.steelDk, 0, 0, 10); const wh = cyl(0.055, 0.055, 0.05, L.rubber, 14); wh.rotation.z = PI / 2; wh.position.y = P(-3.6); fk.add(wh); const hub = cyl(0.03, 0.03, 0.056, L.chrome, 8); hub.rotation.z = PI / 2; hub.position.y = P(-3.6); fk.add(hub); }
     for (const y of [ys[0], ys[1], ys[2]]) { B(g, [-hw, hw], [y, y + 1.4], [-hz, hz], L.steel, 0.012); B(g, [-hw, hw], [y + 1.4, y + 3.2], [hz - 0.03, hz], L.steel, 0.008); B(g, [-hw, hw], [y + 1.4, y + 3.2], [-hz, -hz + 0.03], L.steel, 0.008); B(g, [hw - 0.03, hw], [y + 1.4, y + 3.2], [-hz, hz], L.steel, 0.008); B(g, [-hw, -hw + 0.03], [y + 1.4, y + 3.2], [-hz, hz], L.steel, 0.008); }
     const hd = tube([[-hw - 0.02, P(35), -hz + 0.05], [-hw - 0.2, P(44), -hz + 0.05], [-hw - 0.2, P(44), hz - 0.05], [-hw - 0.02, P(35), hz - 0.05]], 0.022, L.chrome); g.add(hd); Ca(g, 'z', 0.026, -hz + 0.05, hz - 0.05, L.rubber, -hw - 0.2, P(44), 0, 10);
     B(g, [-hw + 0.04, -hw + 0.12], [35, 39], [hz - 0.01, hz + 0.01], G_.cyan, 0.002); B(g, [hw - 0.02, hw + 0.01], [7, 9.5], [-hz + 0.04, hz - 0.04], L.amber, 0.003);
@@ -261,8 +266,8 @@
     for (let i = 0; i < 3; i++) { const a = deg(30 + i * 120 + 8), x = Math.cos(a) * 0.4, z = Math.sin(a) * 0.4; rod(g, [x, P(1), z], [Math.cos(a) * 0.05, P(36), Math.sin(a) * 0.05], 0.02, L.graphite, 8); S(g, 0.03, L.rubber, x, P(0.8), z); }
     Cy(g, 0.032, 22, 62, L.steel, 0, 0, 10); Cy(g, 0.05, 34, 37, L.graphite, 0, 0, 12); const kn = cyl(0.04, 0.04, 0.04, L.redPaint, 10); kn.rotation.z = PI / 2; kn.position.set(0.07, P(35.5), 0); g.add(kn);
     // the cabinet, tilted a little down towards the camera: a trapezoid box with a perforated grille, a woofer cone, a horn tweeter, a handle and a lamp
-    const sp = G(); sp.position.set(0, P(78), 0.0); sp.rotation.set(0.12, -0.2, 0); g.add(sp);
-    B(sp, [-0.3, 0.3], [-20, 20], [-0.22, 0.18], L.graphite, 0.04); B(sp, [-0.31, 0.31], [-21, -18.4], [-0.23, 0.19], L.steelDk, 0.02); B(sp, [-0.31, 0.31], [18.4, 21], [-0.23, 0.19], L.steelDk, 0.02);
+    const sp = G(); sp.position.set(0, P(78), 0.0); sp.rotation.set(0.12, 0.62, 0); g.add(sp);
+    B(sp, [-0.3, 0.3], [-20, 20], [-0.22, 0.18], std('#2c3642', 0.45, 0.45), 0.04); B(sp, [-0.31, 0.31], [-21, -18.4], [-0.23, 0.19], L.steelDk, 0.02); B(sp, [-0.31, 0.31], [18.4, 21], [-0.23, 0.19], L.steelDk, 0.02);
     B(sp, [-0.25, 0.25], [-16, 16], [0.17, 0.21], L.steelDk, 0.014);
     for (let r = 0; r < 14; r++) for (let c = 0; c < 8; c++) { const d = cyl(0.012, 0.012, 0.012, L.dark, 6); d.rotation.x = PI / 2; d.position.set(-0.2 + c * 0.057, P(-14 + r * 2.15) , 0.212); if ((r * 7 + c) % 1 === 0) sp.add(d); }
     { const wr = new T.Mesh(new T.TorusGeometry(0.17, 0.02, 8, 28), L.chrome); wr.position.set(0, P(-6), 0.212); sp.add(wr); const cone = new T.Mesh(new T.ConeGeometry(0.15, 0.1, 22, 1, true), L.rubber); cone.rotation.x = -PI / 2; cone.position.set(0, P(-6), 0.19); cone.material = L.rubber; sp.add(cone); const dust = new T.Mesh(new T.SphereGeometry(0.05, 12, 8, 0, TAU, 0, PI / 2), L.steelDk); dust.rotation.x = PI / 2; dust.position.set(0, P(-6), 0.214); sp.add(dust); }
